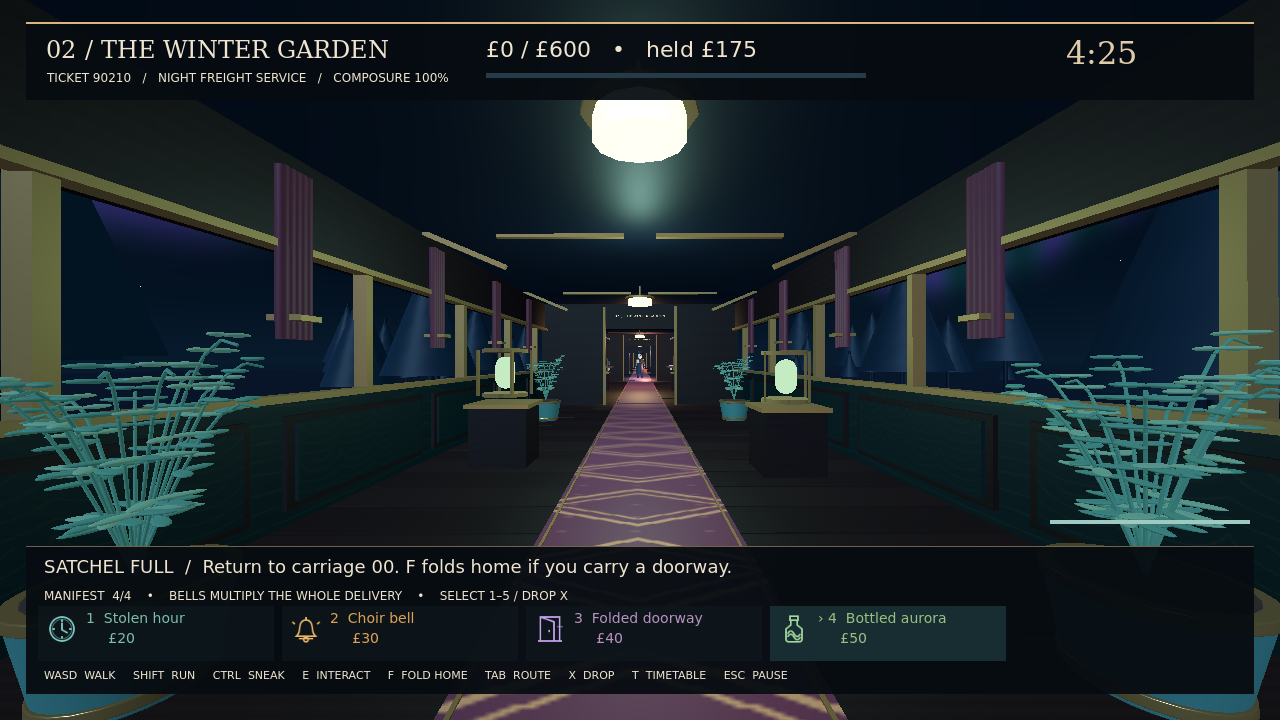
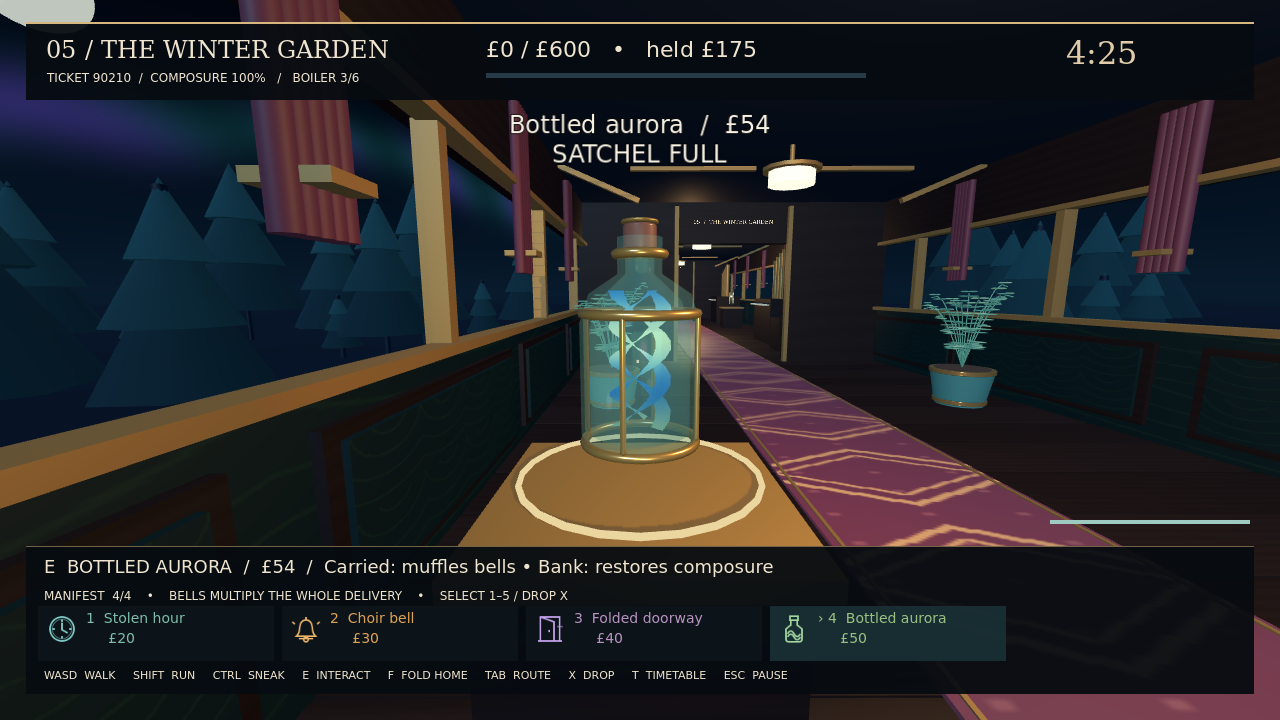
Clarify relic targeting, fresh tickets and dropping bells for stealth

diff --git a/docs/DESIGN.md b/docs/DESIGN.md
@@ -72,3 +72,11 @@ Continue independent development after this checkpoint; no final release has bee
 Native Windows CI passed title/profile checkpoint 8873f35 (run 40840321227). The Windows export also rendered the title scene under Wine and passed exported smoke, including profile replacement.
 
 A later recovery audit found that dropped-and-recollected freight returned to the drop location on capture despite the display-return rule. Each relic now tracks its display independently of its current physical location. Both positions follow their respective carriage during shunting; capture restores the relic to the moving display. The scene regression drops/recollects a real relic at the exchange, moves its original carriage away and back, then checks actual conductor capture restores it and releases its collection identity. All three ticket seeds and the physical winning route passed. This recovery change needs its own native Windows CI result.
+
+## Targeting and stealth clarity
+
+The relic under the player's gaze now shows a brass focus ring and a world-space name/value prompt. A full satchel changes that prompt to SATCHEL FULL. Passenger interactions suppress relic highlighting so the displayed target matches E's action. The gameplay screenshot now shows the modeled aurora bottle and current HUD. Loss text explicitly says that each new ticket starts fresh, avoiding a suggestion that banked cash carries between independent runs.
+
+The quiet encounter regression now uses a real bell: it attracts pursuit, is dropped in a refuge, lets the live conductor pass, and is collected again with E. Full validation passed before the final text-only clarification: state, profile, geometry, three smoke seeds, and the physical route. Cargo-recovery commit 9ba8837 passed native Windows CI (run 40840647014).
+
+A diagnostic attempt to run the center-aisle collection bot with the conductor enabled failed (£356), because that bot walks straight through him and repeatedly gets caught. The experimental flag was removed. This does not establish human balance; no live-threat winning route or human playtest has been claimed. Future balance work should use a threat-aware route policy, retaining the separate deterministic navigation/economy checks and genuine encounter tests. No final release declaration has been made.
